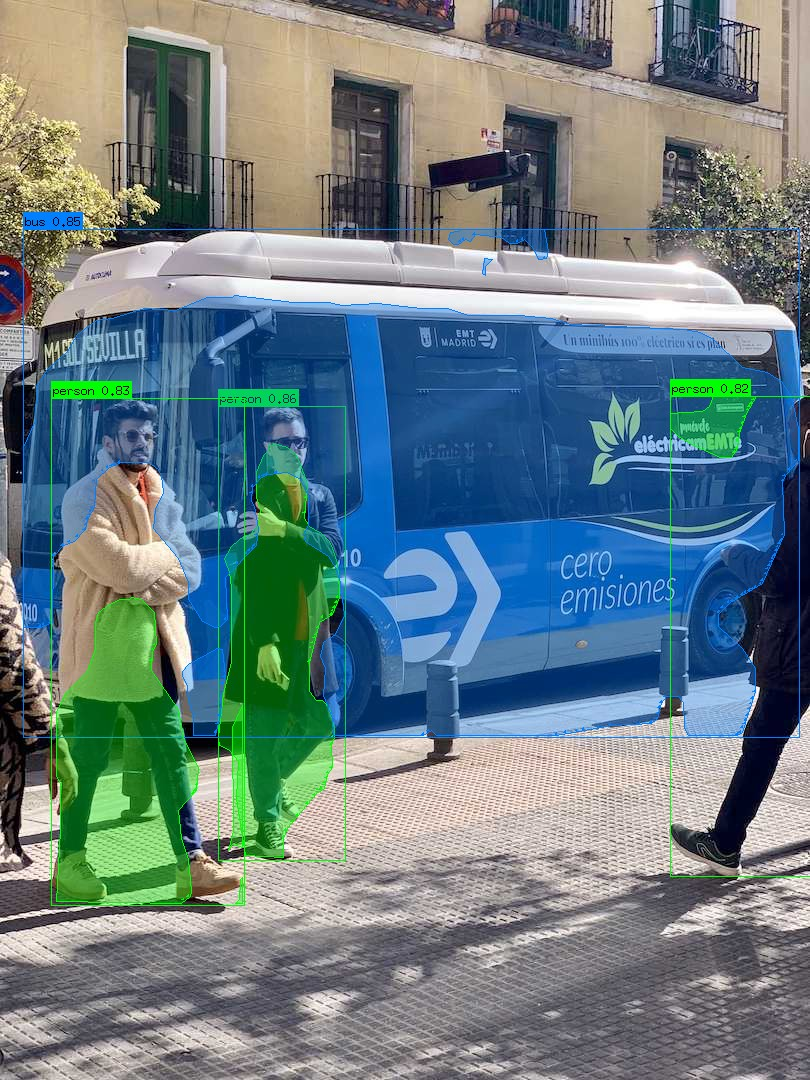
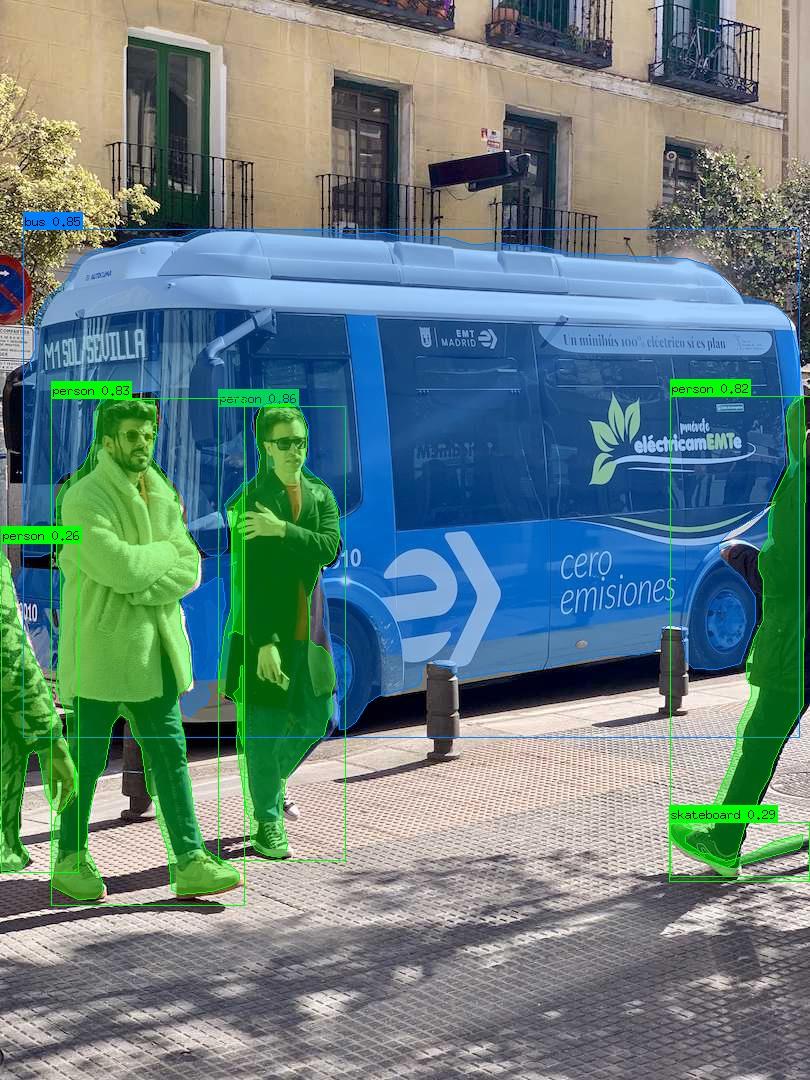
fix(seg): 修复掩膜纵向错位与轮廓碎裂两个独立缺陷
seg.go makeMasks 采样原型掩膜时，Y 方向误加框的 X 起点 ix1
而非 iy1（复制粘贴笔误），导致所有实例掩膜整体下移约一个框
偏置量（原图 60~100px）。改为 iy1 后与 ultralytics 参考输出
质心仅差 2~4px（双线性采样+0.5 阈值的正常误差）。

contour.go 重写连通域 + Moore 外轮廓追踪：原实现把自增后的
nextLabel 当作组件 label 传给 traceOuter，且无连通域分组，
单个连通域被切成数十至上百个碎多边形。改为 8-连通 BFS 标记
后每个组件追踪一条外轮廓，并保留 RDP 简化。

经隔离验证：两个缺陷互相独立——新轮廓代码在错误采样下仍产出
正常多边形数，修复采样后轮廓碎裂也不复发。

同步重新生成 examples/bus_seg_result.jpg。go test/vet/gofmt
全绿，集成测试对真实 yolov8n-seg.onnx + bus.jpg 验证通过。

Changed region(s): [[0.0, 0.2139, 1.0, 0.8556], [0.8025, 0.3667, 0.9259, 0.4278]]

diff --git a/internal/engines/onnxruntime/seg/contour.go b/internal/engines/onnxruntime/seg/contour.go
@@ -1,96 +1,142 @@
 package seg
 
-// contour 从二值掩膜（true=前景）中追踪外轮廓，返回多条闭合多边形。
+// point 是掩膜上的一个整数坐标点（局部坐标系，原点在框左上角）。
+type point struct{ x, y int }
+
+// contour 从二值掩膜（true=前景）提取每个连通域的外轮廓，返回多条闭合多边形。
 //
-// 采用简化的 Moore 邻域追踪：扫描到一个未访问的前景边界像素后，沿其
-// 8-邻域顺时针绕行回到起点；被追踪过的像素标记 visited，避免重复。
+// 等价于 OpenCV 的 findContours(RETR_EXTERNAL, CHAIN_APPROX_SIMPLE)：
+//  1. 8-连通连通域标记，把碎裂的前景像素分组成若干实例
+//  2. 每个连通域取最上最左的边界点做 Moore 邻域外轮廓追踪
+//  3. RDP 算法压缩共线点
+//
 // 掩膜坐标原点在左上角，x 向右、y 向下。
 func contour(mask []bool, w, h int) [][]point {
 	if w <= 0 || h <= 0 || len(mask) != w*h {
 		return nil
 	}
-	visited := make([]bool, len(mask))
-	var polys [][]point
 
+	labels := make([]int, len(mask))
+	type component struct {
+		pixels []int
+		label  int
+	}
+	var components []component
+	nextLabel := 1
+
+	// 8-连通洪水填充标记。
 	for y := 0; y < h; y++ {
 		for x := 0; x < w; x++ {
 			idx := y*w + x
-			if !mask[idx] || visited[idx] {
+			if !mask[idx] || labels[idx] != 0 {
 				continue
 			}
-			// 只把"与背景或图像边缘相邻"的像素当作轮廓起点，减少内部扫描。
-			if !isBoundary(mask, w, h, x, y) {
-				continue
-			}
-			poly := traceOne(mask, visited, w, h, x, y)
-			if len(poly) >= 3 {
-				polys = append(polys, simplify(poly))
-			}
+			pixels := floodFill(mask, labels, w, h, x, y, nextLabel)
+			components = append(components, component{pixels, nextLabel})
+			nextLabel++
+		}
+	}
+
+	var polys [][]point
+	for _, c := range components {
+		if poly := traceOuter(mask, labels, w, h, c.pixels, c.label); len(poly) >= 3 {
+			polys = append(polys, simplify(poly))
 		}
 	}
 	return polys
 }
 
-type point struct{ x, y int }
+// floodFill 从 (sx,sy) 做 8-连通 BFS，标记 label 并返回该连通域所有像素下标。
+func floodFill(mask []bool, labels []int, w, h, sx, sy, label int) []int {
+	stack := []int{sy*w + sx}
+	labels[stack[0]] = label
+	var pixels []int
+	for len(stack) > 0 {
+		idx := stack[len(stack)-1]
+		stack = stack[:len(stack)-1]
+		pixels = append(pixels, idx)
+		x, y := idx%w, idx/w
+		for dy := -1; dy <= 1; dy++ {
+			ny := y + dy
+			if ny < 0 || ny >= h {
+				continue
+			}
+			for dx := -1; dx <= 1; dx++ {
+				if dx == 0 && dy == 0 {
+					continue
+				}
+				nx := x + dx
+				if nx < 0 || nx >= w {
+					continue
+				}
+				ni := ny*w + nx
+				if mask[ni] && labels[ni] == 0 {
+					labels[ni] = label
+					stack = append(stack, ni)
+				}
+			}
+		}
+	}
+	return pixels
+}
 
-// 8-邻域，顺时针顺序，起点为正上方。
+// 8-邻域，顺序：从正上方开始顺时针。
 var nbr8 = [8][2]int{
 	{0, -1}, {1, -1}, {1, 0}, {1, 1},
 	{0, 1}, {-1, 1}, {-1, 0}, {-1, -1},
 }
 
-func isBoundary(mask []bool, w, h, x, y int) bool {
-	for _, n := range nbr8 {
-		nx, ny := x+n[0], y+n[1]
-		if nx < 0 || ny < 0 || nx >= w || ny >= h || !mask[ny*w+nx] {
-			return true
+// traceOuter 用 Moore 邻域追踪单个连通域（标签 compLabel）的外轮廓。
+//
+// 取该连通域最上最左的边界像素为起点，沿邻域顺时针绕行一周回到起点。
+// 只把属于本连通域的像素当作"前景"，避免穿到其他实例（即使它们也在掩膜中）。
+func traceOuter(mask []bool, labels []int, w, h int, pixels []int, compLabel int) []point {
+	// 找最上最左像素（y 最小，同 y 取 x 最小）——它一定是外边界点。
+	sx, sy := w, h
+	for _, idx := range pixels {
+		x, y := idx%w, idx/w
+		if y < sy || (y == sy && x < sx) {
+			sx, sy = x, y
 		}
 	}
-	return false
-}
 
-// traceOne 从 (sx,sy) 出发沿边界绕行一周，标记 visited。
-func traceOne(mask []bool, visited []bool, w, h, sx, sy int) []point {
 	var poly []point
 	x, y := sx, sy
-	startDir := 0 // 进入方向；下一个候选从其反方向开始
+	// backDir 是"我们从哪个方向进入当前像素"的邻域索引；下一个候选从
+	// (backDir+1)%8 开始顺时针搜，保证始终贴外边界走。
+	backDir := 6 // 起点：假定从左邻域(-1,0)进入，先向上方找
+
 	for {
-		idx := y*w + x
-		if !visited[idx] {
-			visited[idx] = true
-			poly = append(poly, point{x, y})
-		}
+		poly = append(poly, point{x, y})
 		found := false
 		for k := 0; k < 8; k++ {
-			d := (startDir + k) % 8
+			d := (backDir + k) % 8
 			nx, ny := x+nbr8[d][0], y+nbr8[d][1]
 			if nx < 0 || ny < 0 || nx >= w || ny >= h {
 				continue
 			}
-			if mask[ny*w+nx] {
-				// 记录进入方向：下一步从当前方向的"后方"搜起。
-				startDir = (d + 4 + 1) % 8
+			if labels[ny*w+nx] == compLabel {
+				// 进入 (nx,ny) 的方向是 d 的反向；下一次从其顺时针下一个搜起。
+				backDir = (d + 5) % 8 // 反方向再 -1（顺时针优先）
 				x, y = nx, ny
 				found = true
 				break
 			}
 		}
 		if !found {
-			break // 孤立像素，已加入
+			break // 孤立像素
 		}
 		if x == sx && y == sy {
 			break
 		}
-		// 防御性上限，避免异常掩膜造成死循环。
 		if len(poly) > w*h {
-			break
+			break // 防御性上限
 		}
 	}
 	return poly
 }
 
-// simplify 用 Ramer-Douglas-Peucker 算法剔除共线点，压缩点数
-// （逐像素的轮廓会产生很大 JSON/渲染开销）。
+// simplify 用 Ramer-Douglas-Peucker 算法剔除共线点，压缩点数。
 func simplify(p []point) []point {
 	if len(p) <= 4 {
 		return p

diff --git a/internal/engines/onnxruntime/seg/seg.go b/internal/engines/onnxruntime/seg/seg.go
@@ -323,7 +323,7 @@ func (e *Engine) makeMasks(cands []cand, lb *preprocess.Letterboxed, orig image.
 		// 在掩膜原型空间内只处理落在框内的像素，双线性采样加权和并 sigmoid。
 		mask := make([]bool, bw*bh)
 		for py := 0; py < bh; py++ {
-			my := (float32(py) + 0.5 + ix1) * sy // 掩膜空间 y（像素中心）
+			my := (float32(py) + 0.5 + iy1) * sy // 掩膜空间 y（像素中心，注意用 iy1 而非 ix1）
 			for px := 0; px < bw; px++ {
 				mx := (float32(px) + 0.5 + ix1) * sx
 				v := e.sampleProto(mx, my, c.coeffs)
